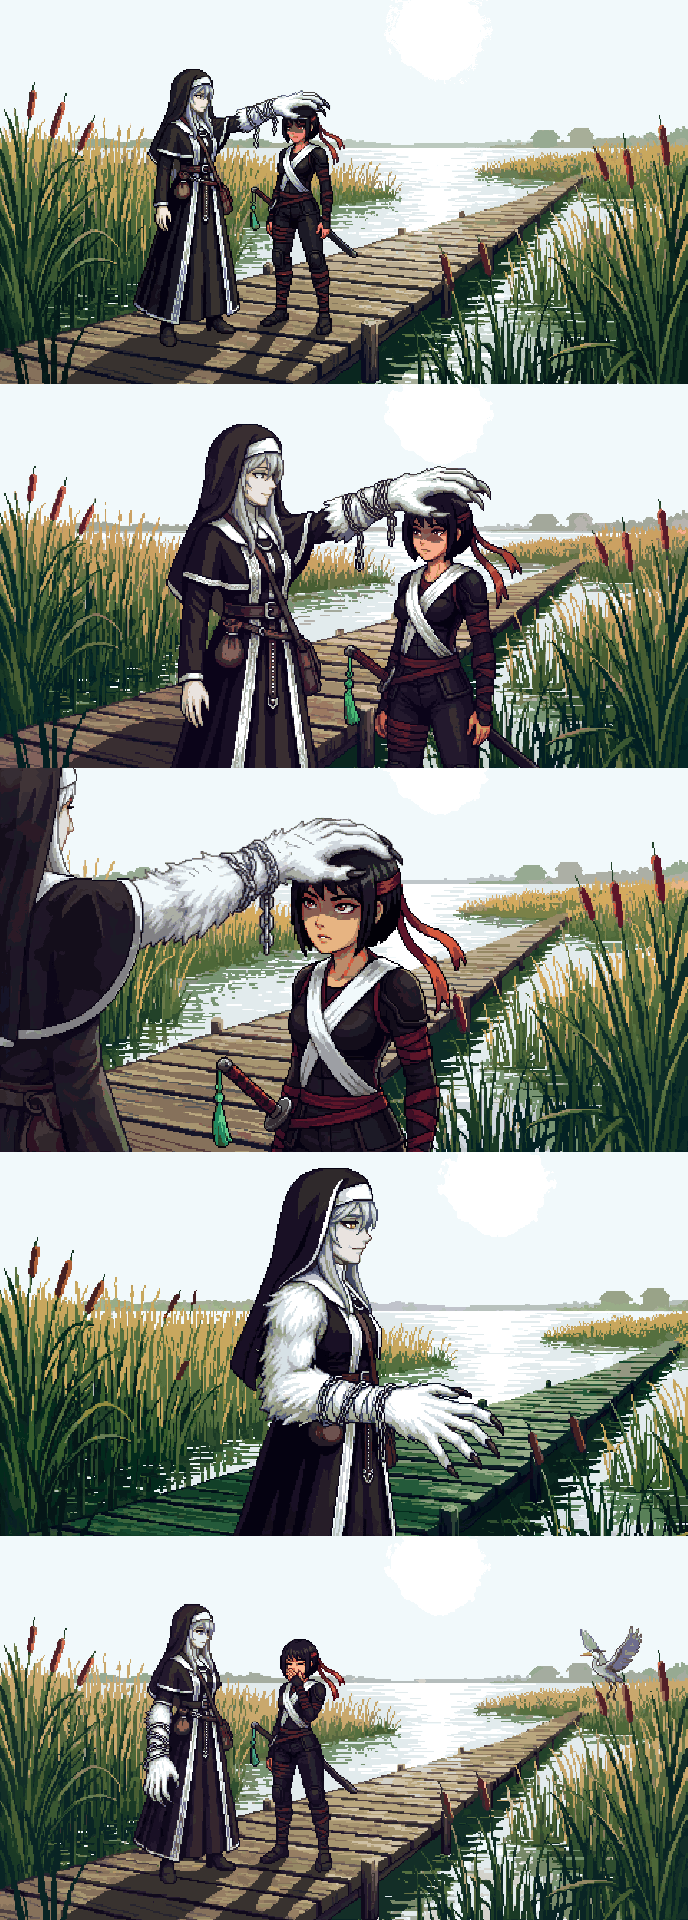
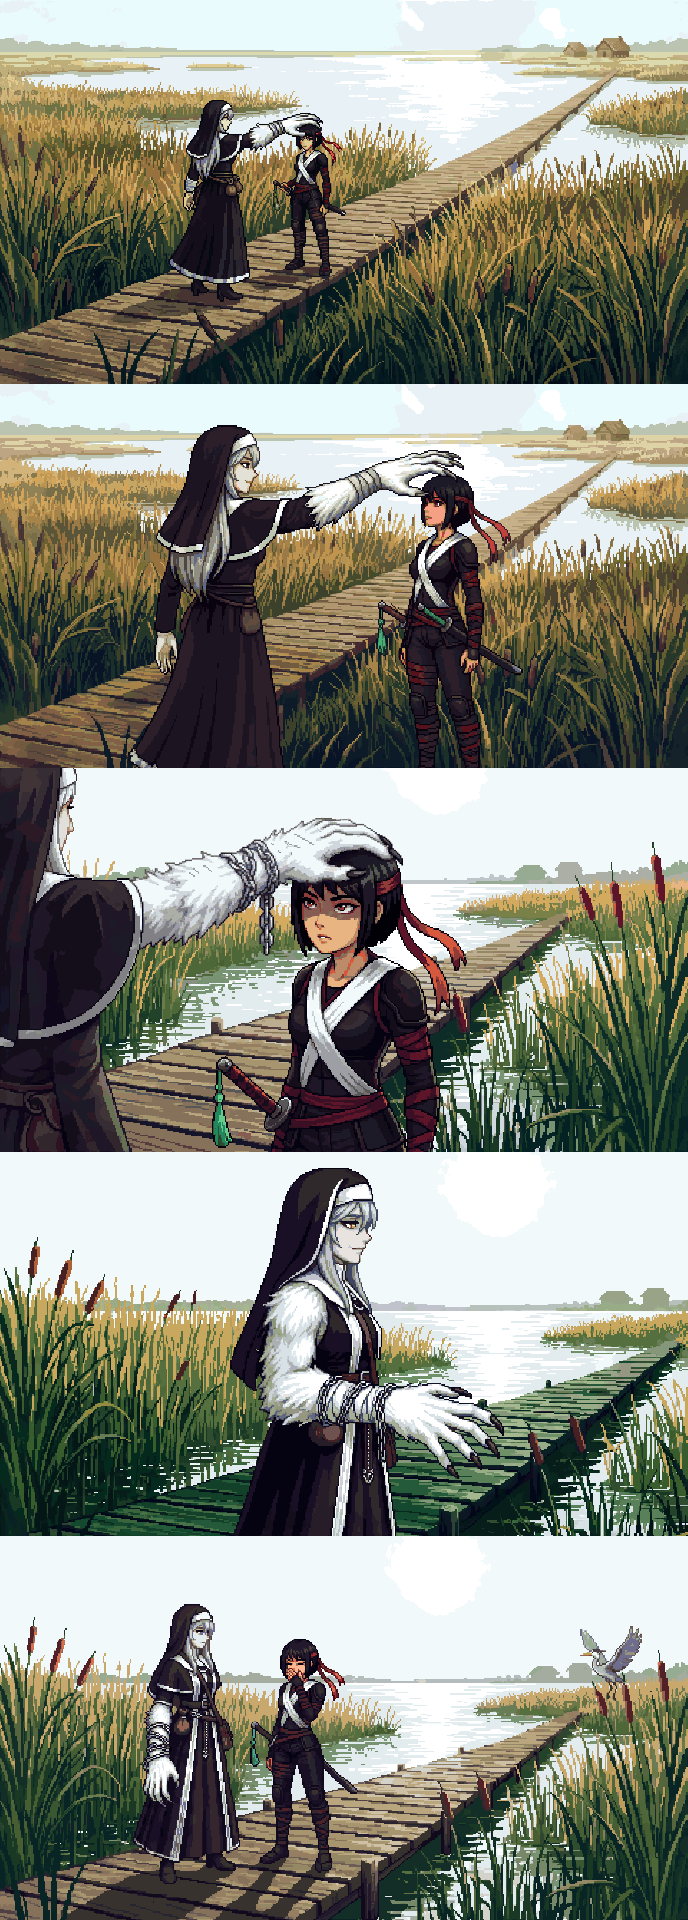
Redraw sunlight shots 1 and 2 with Mira's wolf arm on her right
Claude-Session: https://claude.ai/code/session_01Mqbwb3vBTod3APyq2XNhsx

Changed region(s): [[0.0, 0.0, 1.0, 0.4062]]

diff --git a/game/CREDITS.md b/game/CREDITS.md
@@ -23,7 +23,7 @@ Everything here was first made for or gathered by the first game, [Isekai'd Into
 | Chapters 2 to 6's recurring cast in dialogue (`assets/img/portraits/` `coo-*`, `seymour-*`, `faithful-*` (Elder Wren), `marrow-*`, `tilly-*`, `anselm-*`, `hale-*`, `pip-*`, `bru-*`, `kagemaru-*`, `hana-*`, `wen-*`, `noor-*`, `ash-*` (Mother Ash), `selvaria-*`, `aurelian-*`, `lexi-*`, `gu-*` (Old Gu), `namgung-*`, `ok-*` (Madam Ok), `jin-*`, `ashgrove-*`, `theo-*`, `iris-*`, `pella-*`, `ayo-*`, `kaito-*`, `cron-*`, `gary-neutral`, `aigerim-*`, `mio-*`, `chad-*`) | Generated for this game with [PixelLab](https://pixellab.ai) on Ladi's subscription on 2026-10-21: each neutral drawn from a written description of the character (Story Bible and the first game's look) with one of the leads' portraits as the style image (`create-image-pro-flash`), and each second face a text edit of that neutral (`edit-image-pro-flash`), scaled up 3x with hard pixel edges | Used under PixelLab's [Terms of Service](https://pixellab.ai/termsofservice) | Faces in dialogue from chapter 2 on |
 | The first game's people seven years on, and Grandma Wen as she always looks (`assets/img/portraits/` `aigerim-neutral`, `ayo-neutral`, `bru-smile`, `bru-neutral`, `chad-neutral`, `gary-neutral`, `kaito-neutral`, `mio-neutral`, `wen-neutral`, `wen-smile`, replacing those in the row above) | Generated for this game with [PixelLab](https://pixellab.ai) on Ladi's subscription on 2026-10-21 (`generate-image-v2`): each drawn from the character's first-game portrait (Isekai'd Into Prod) as the likeness, aged seven years (Wen not at all), with this game's earlier portrait as the style image; Ladi's picks, scaled up 3x with hard pixel edges. `bru-neutral` is `bru-smile` with the mouth and cheeks repainted to a neutral face by Google's Gemini image model (gemini-3-pro-image-preview) through the Gemini API on Ladi's account, snapped back to the portrait's own pixels and colours | Used under PixelLab's [Terms of Service](https://pixellab.ai/termsofservice) and the [Gemini API Additional Terms of Service](https://ai.google.dev/gemini-api/terms) | Faces in dialogue |
 | Chapter 5's cutscenes from Lina's Voice to the Lanterns Go Out, and all of Chapter 6's (`assets/img/cut/` `linas-voice`, `linas-voice-dawn`, `the-ledgers`, `the-button`, `a-deal`, `backoff`, `turned-on`, `the-record`, `the-record-ev1`, `the-record-ev2`, `the-record-dark`, `the-shift`, `the-rail`, `the-rail-hold`, `the-rail-let`, `she-nearly-did`, `the-lanterns-go-out`, `the-day-gary-quit`, `the-offer-on-the-jetty`, `the-mirror`, `the-ring-in-the-bunker`, `the-clock-room-intro`, `the-clock-room`, `the-confrontation`, `the-confrontation-shore`, `the-confrontation-copy`, `the-confrontation-bravo`, `no-my-lady`, `switched-sides`, `kagemarus-choice`, `the-backlog`, `the-freed-floors`, each a sheet of 16:9 shots) | Generated for this game with [PixelLab](https://pixellab.ai) on Ladi's subscription on 2026-10-22 (`generate-image-v2`), one still per storyboard shot (`storyboard/ch5`, `storyboard/ch6`), with the cast's portraits as likeness references (young Gary in 1984 from his first-game portrait); `the-mirror` shots 3 and 11 mirrored on 2026-10-24 so Mira's wolf arm is on her right; a few stills touched up by Google's Gemini image model (gemini-3-pro-image-preview) through the Gemini API on Ladi's account. Stacked into sheets by the cutscene pipeline's `gen.py --export` | Used under PixelLab's [Terms of Service](https://pixellab.ai/termsofservice) and the [Gemini API Additional Terms of Service](https://ai.google.dev/gemini-api/terms) | Chapter 5 and 6 cutscenes (`js/cut-ch5b.js`, `js/cut-ch6.js`) |
-| Chapter 2's cutscene stills (`assets/img/cut/` `floor-seven`, `freya-visits`, `hale-escapes`, `she-did-my-taxes`, `sunlight`, `the-dispatches`, `the-grey-novice`, `thornwick-freed`, `three-one-four-cart`, `tilly`, `two-prayers`, `unmake-it`, `uptima-in-chains`, `uptima-reads-the-prayer`, `what-he-felt`, each a sheet of 16:9 shots, and the ghost frames `freya-back` and `freya-projection`) | Generated for this game with [PixelLab](https://pixellab.ai) on Ladi's subscription on 2026-10-22 (`generate-image-v2`), one still per storyboard shot (`storyboard/ch2`), with the cast's portraits as likeness references; `three-one-four-cart` redrawn the same day under its own name. `uptima-in-chains` shot 5 redrawn on 2026-10-24 with Mira's wolf arm on her right. Stacked into sheets by the cutscene pipeline's `gen.py --export` | Used under PixelLab's [Terms of Service](https://pixellab.ai/termsofservice) | Chapter 2's cutscenes, in place of the vector stills (`js/cut-ch2.js`) |
+| Chapter 2's cutscene stills (`assets/img/cut/` `floor-seven`, `freya-visits`, `hale-escapes`, `she-did-my-taxes`, `sunlight`, `the-dispatches`, `the-grey-novice`, `thornwick-freed`, `three-one-four-cart`, `tilly`, `two-prayers`, `unmake-it`, `uptima-in-chains`, `uptima-reads-the-prayer`, `what-he-felt`, each a sheet of 16:9 shots, and the ghost frames `freya-back` and `freya-projection`) | Generated for this game with [PixelLab](https://pixellab.ai) on Ladi's subscription on 2026-10-22 (`generate-image-v2`), one still per storyboard shot (`storyboard/ch2`), with the cast's portraits as likeness references; `three-one-four-cart` redrawn the same day under its own name. `sunlight` shots 1 and 2 and`uptima-in-chains` shot 5 redrawn on 2026-10-24 with Mira's wolf arm on her right. Stacked into sheets by the cutscene pipeline's `gen.py --export` | Used under PixelLab's [Terms of Service](https://pixellab.ai/termsofservice) | Chapter 2's cutscenes, in place of the vector stills (`js/cut-ch2.js`) |
 | Chapter 2's first-half cutscene stills (`assets/img/cut/` `brams-wagon`, `the-edge`, `the-tower`, `the-scrap-field`, `the-bunker`, `elder-wren`, `the-first-fire`, `thornwick-square`, `the-post-box`, `mira-doesnt-answer`, `the-sorting-floors`, `floors-grow-back`, `shipped`, each a sheet of 16:9 shots) | Generated for this game with [PixelLab](https://pixellab.ai) on Ladi's subscription on 2026-10-22 (`generate-image-v2`), one still per storyboard shot (`storyboard/ch2a`), with the cast's portraits as likeness references (Coo, Elder Wren and Pip from their portraits); `the-bunker` shot 4 (Mira at the hatch) redrawn the same way on 2026-10-24 to give her one arm from each shoulder. Stacked into sheets by the cutscene pipeline's `gen.py --export` | Used under PixelLab's [Terms of Service](https://pixellab.ai/termsofservice) | Chapter 2's first-half cutscenes, in place of the vector stills (`js/cut-ch2a.js`) |
 | The last drawn cutscenes of Chapters 5 and 6 (`assets/img/cut/` `iris-at-the-gate`, `linas-chart`, `freya-at-camp`, each a sheet of 16:9 shots) | Generated for this game with [PixelLab](https://pixellab.ai) on Ladi's subscription on 2026-10-23 (`generate-image-v2`), one still per storyboard shot (`storyboard/ch56x`), with the cast's portraits as likeness references. Stacked into sheets by the cutscene pipeline's `gen.py --export` | Used under PixelLab's [Terms of Service](https://pixellab.ai/termsofservice) | Professor Iris Vell, Lina's chart and Freya at camp, in place of the vector backdrops (`js/cut-ch56x.js`) |
 | The painted glitch twins (`assets/img/cut/<cutscene>-<shot>-painted.webp`: `uptima-in-chains-3`, `freya-visits-3`, `thornwick-freed-1`, `the-jar-2`, `tell-her-yourself-4`, `jins-echo-4`, `two-tapes-one-4`, `the-ledgers-2`, `the-offer-on-the-jetty-4`, `the-mirror-2`) | Painted for this game by Google's Gemini image model (gemini-3-pro-image-preview) through the Gemini API on Ladi's account on 2026-10-22, each from its pixel still as the reference so the two line up (the cutscene pipeline's `paint.py`); `uptima-in-chains-3` is the earlier painted version of that shot | Used under the [Gemini API Additional Terms of Service](https://ai.google.dev/gemini-api/terms) | The glitch between painted and pixel art in those shots (`js/cut-ch2.js` to `cut-ch6.js`) |
